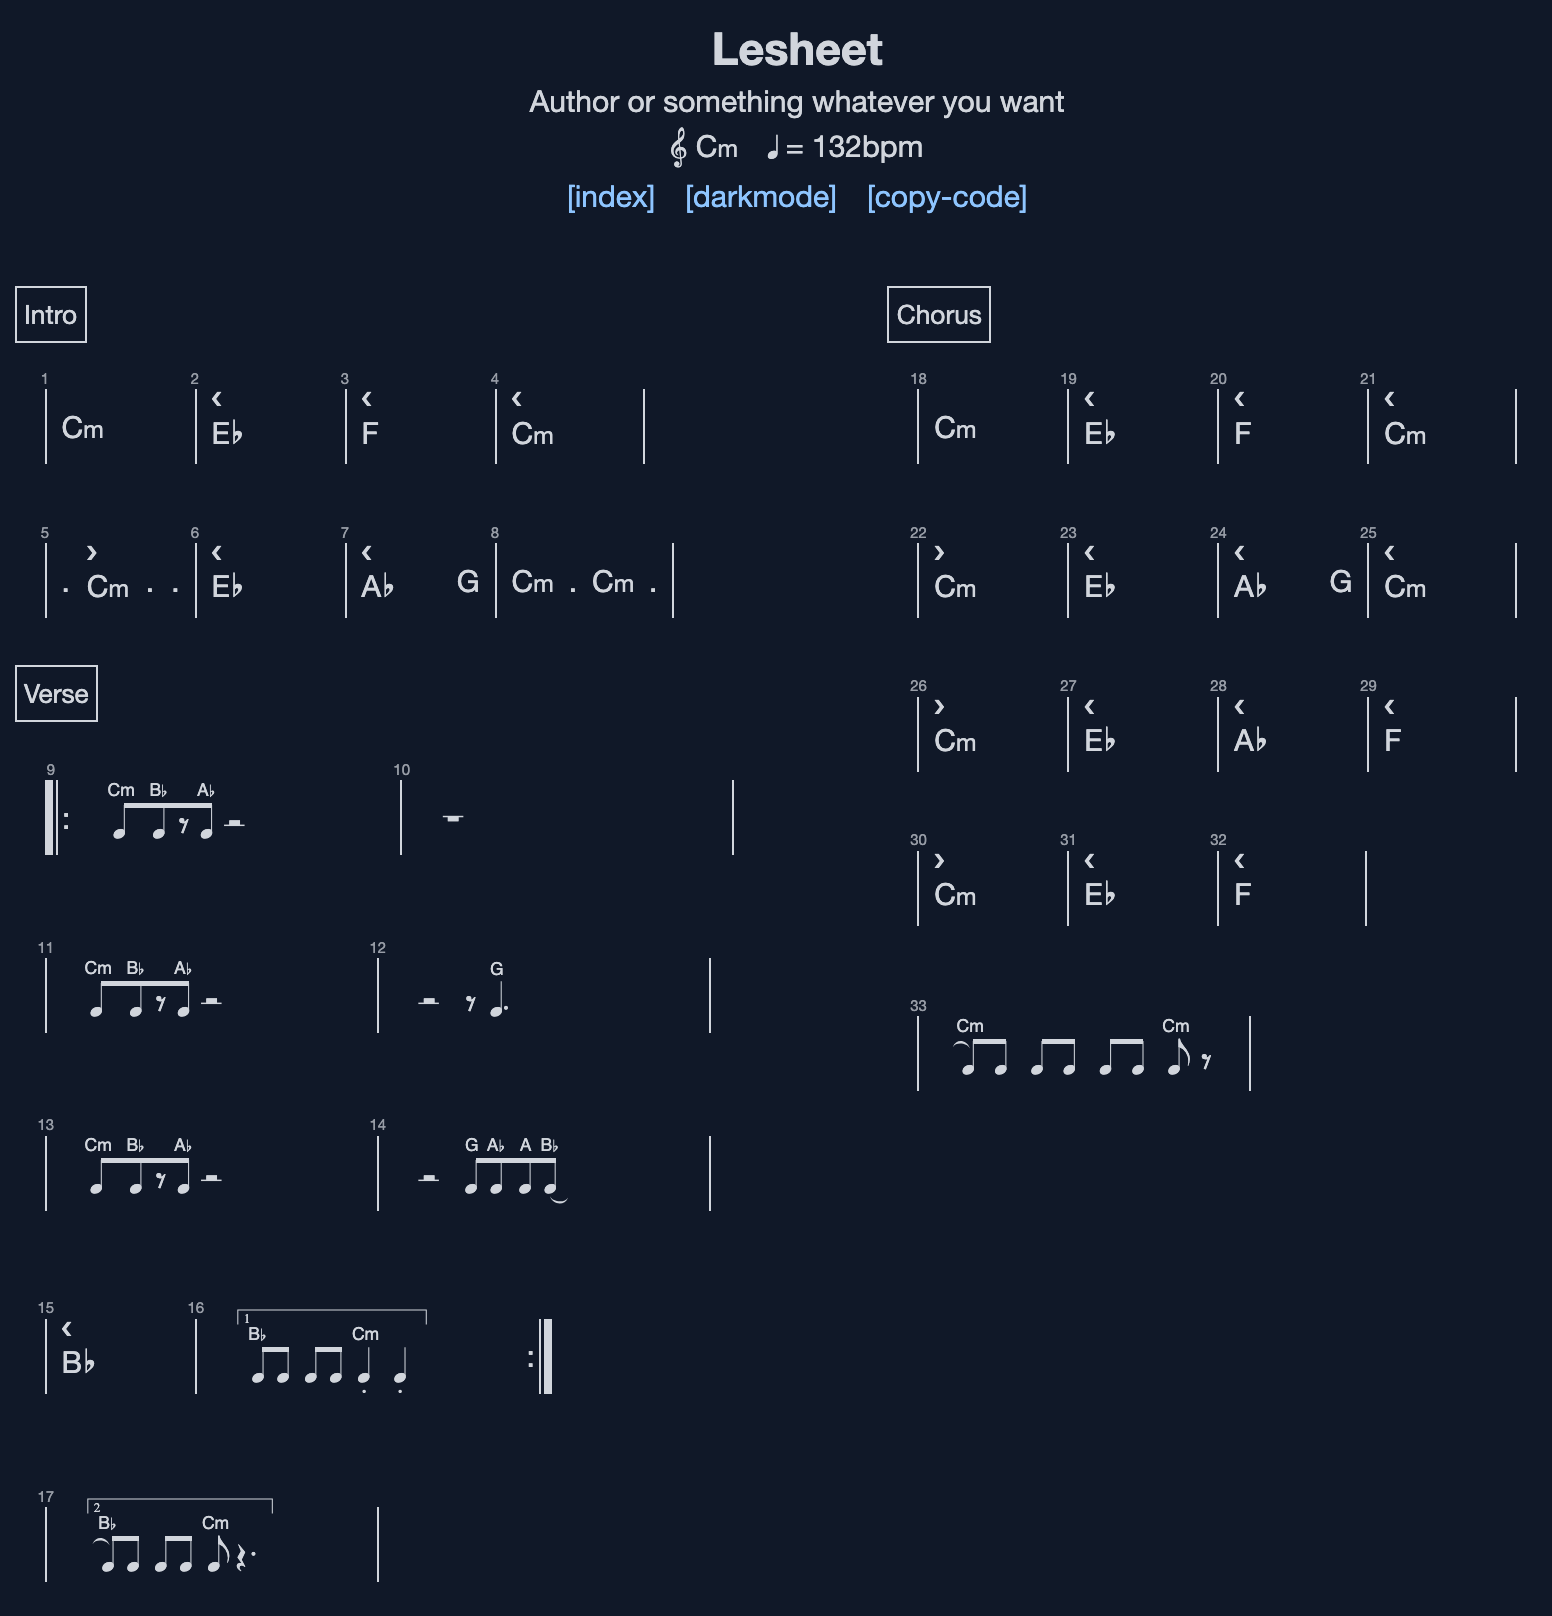
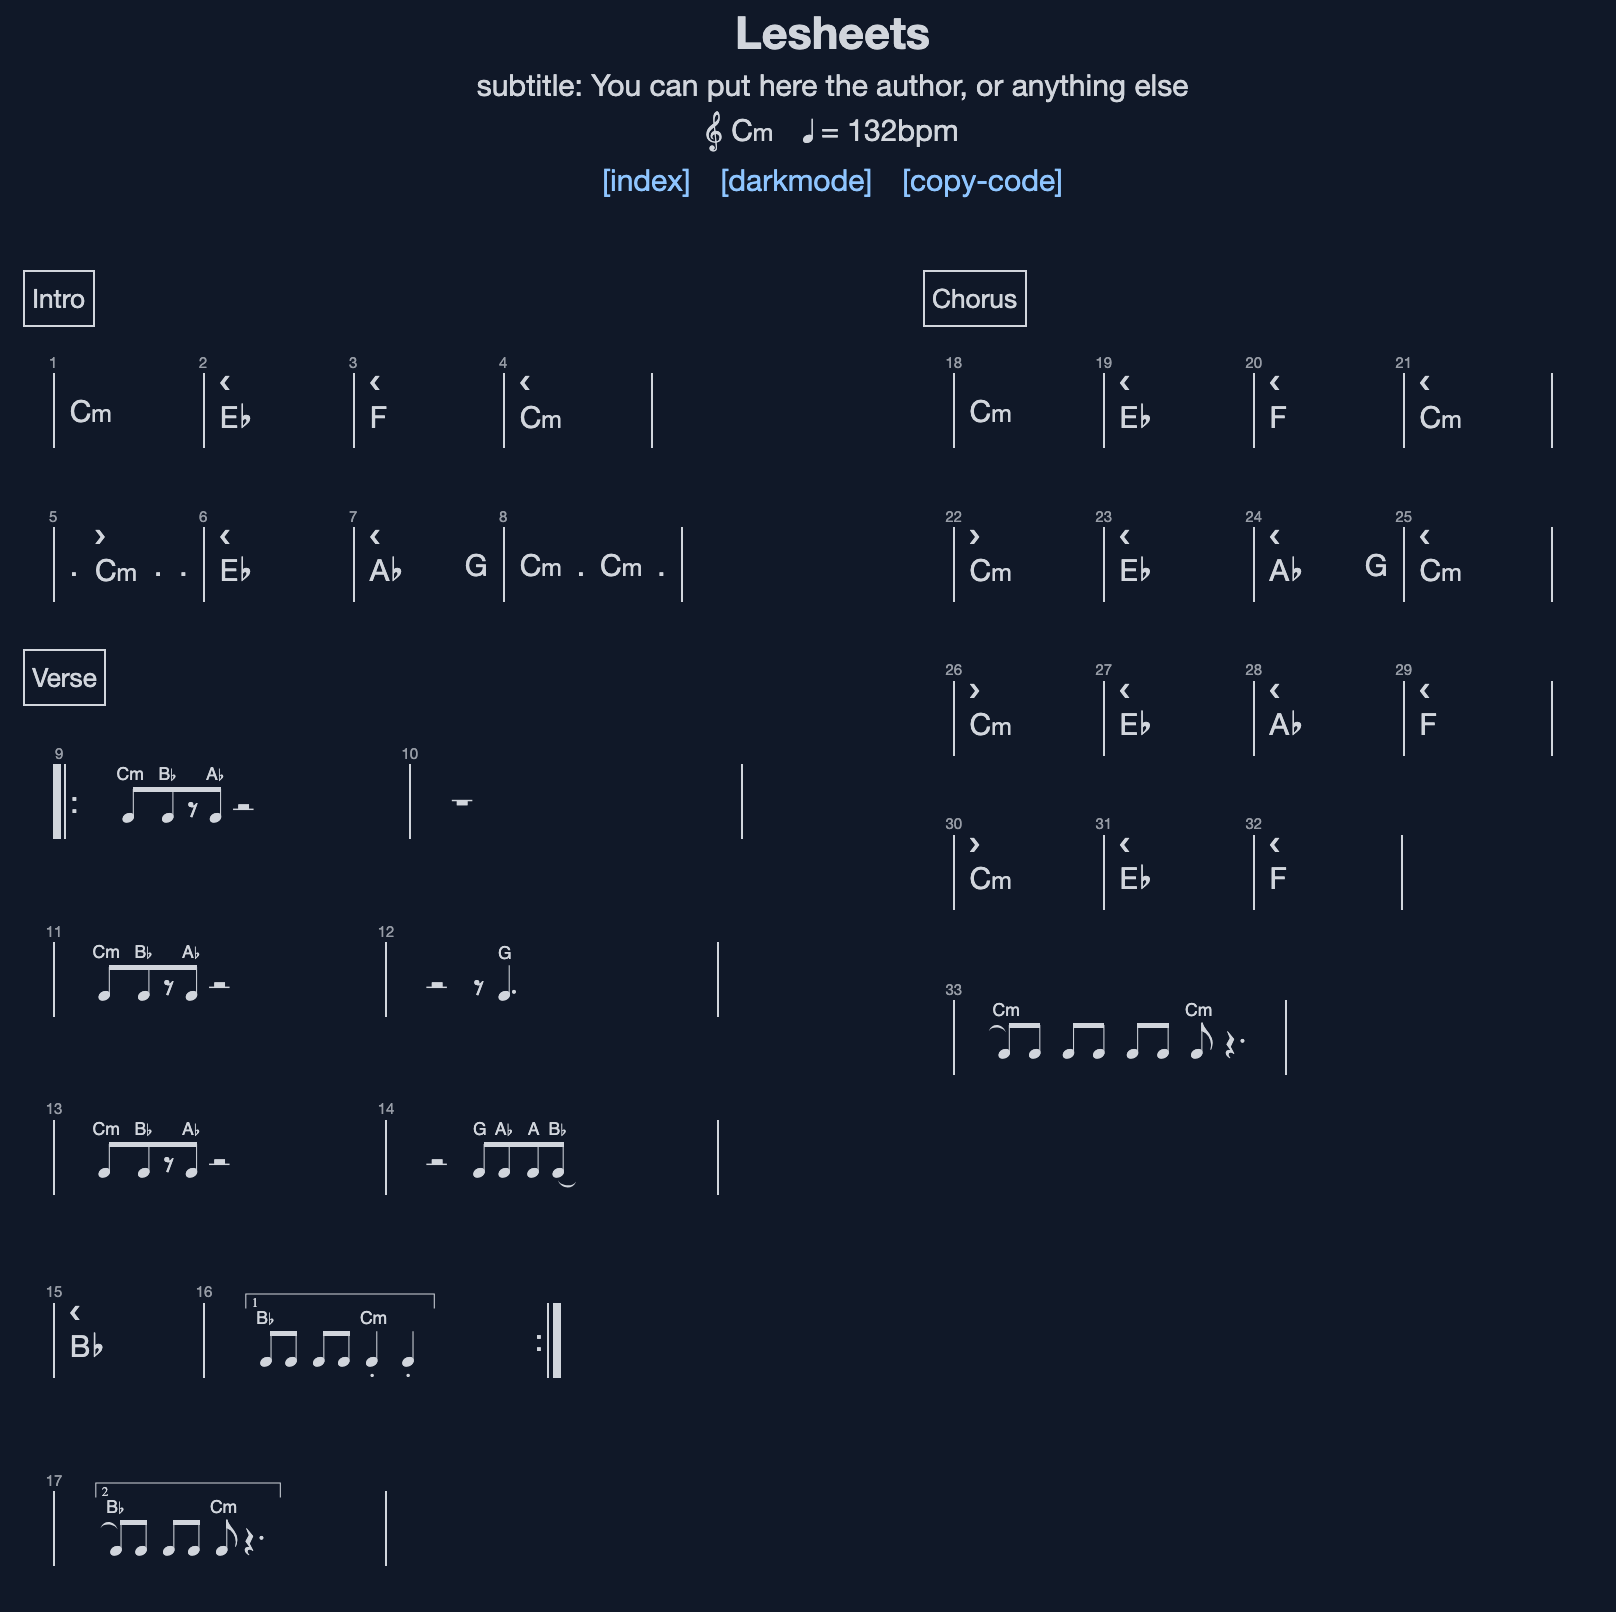
Change image

diff --git a/README.md b/README.md
@@ -70,8 +70,8 @@ Output:
 Input:
 ```markdown
 ---
-title: Lesheet
-subtitle: Author or something whatever you want
+title: Lesheets
+subtitle: "subtitle: You can put here the author, or anything else"
 tempo: 132bpm
 key: Cm
 columns: 2
@@ -143,7 +143,7 @@ Output:
 
 ## Quick Start
 
-Go to [the online editor](lesheets.jtorr.eu/editor.html) and start writing your charts.
+Go to [the online editor](https://lesheets.jtorr.eu/editor.html) and start writing your charts.
 
 ### Installation
 
